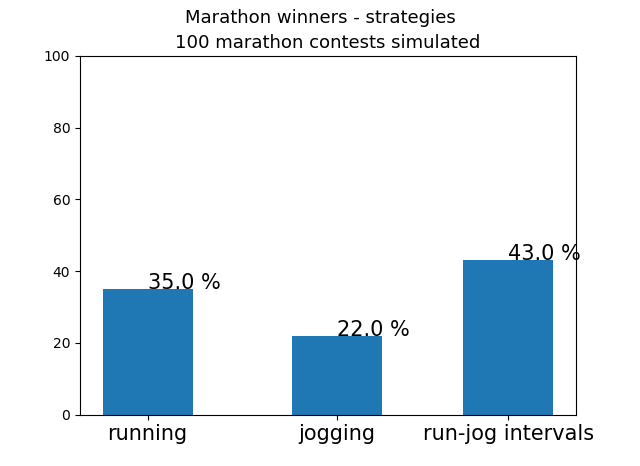
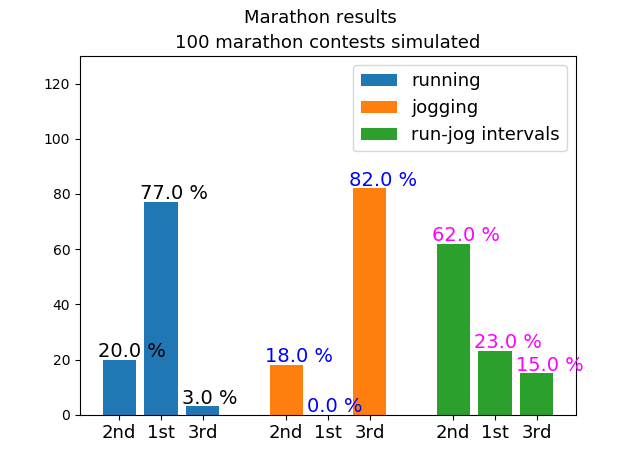
improved code; shows 1st 2nd and 3rd places for run jog run-jog marathon strategies

diff --git a/montemarathon.py b/montemarathon.py
@@ -15,15 +15,16 @@ marathon race
 Andrew Garcia, 2019'''
 
 
-'bad runners'
-probs_run = [0.40, 0.40, 0.01]
-'better runners'
-#probs_run = [0.20, 0.30, 0.01]
-'joggers (all the same)'
-probs_jog = [0.01, 0.00001, 0.00001]
+'bad runners - probabilities for injuries / exhaustion high '
+#probs_run = [0.40, 0.40, 0.01]
+#v_run = 12.5        #speed, miles per hour
 
-
+'better runners - probabilities for injuries / exhaustion reduced'
+probs_run = [0.20, 0.30, 0.01]
 v_run = 12.5        #speed, miles per hour
+
+'joggers probabilities all the same whether good or bad'
+probs_jog = [0.01, 0.00001, 0.00001]
 v_jog = 6        #speed, miles per hour
 
 
@@ -60,8 +61,11 @@ def out(k,t,probs,speed,blisters):
     t += 1          #1 minute passes
     
     return k,t,blisters
-    
 
+
+'MONTE CARLO ALGORITHMS FOR RACE CONTESTANTS'
+
+'pure runners - ran entire race'
 def runner(L):
         
     'clock starts @ time t = 0 min and distance k = 0 miles'    
@@ -71,7 +75,7 @@ def runner(L):
         k,t,blisters = out(k,t,probs_run,v_run,blisters)
     return k,t
     
-    
+'pure joggers - jogged entire race'
 def jogger(L):
     
     'clock starts @ time t = 0 min and distance k = 0 miles'    
@@ -81,7 +85,7 @@ def jogger(L):
         k,t,blisters = out(k,t,probs_jog,v_jog,blisters)
     return k,t
     
-'running-jogging intervals'
+'runner-joggers - alternated between running and jogging'
 def rj_int(L):
     
     'lower probability of hitting the wall if alternating:'
@@ -96,8 +100,9 @@ def rj_int(L):
         
     return k,t
     
-
-def race_winner(L):
+'--------------------------------------------------------------------------'
+'1st 2nd or 3rd place'
+def race_places(L):
 
     dr,tr = runner(L)
     dj,tj = jogger(L)
@@ -105,47 +110,120 @@ def race_winner(L):
     drj,trj = rj_int(L)
     
     times = [tr,tj,trj]
-    whowon = np.zeros(3)
-    winner = times.index(np.min(times))
-    whowon[winner] =1
+    order = list(np.sort(times))
+    
+    places = [order.index(times[0]),order.index(times[1]),order.index(times[2])]
 
-    return whowon
+    return places
 
 
+def assign_places(L,rers1st, jers1st, rjers1st,rers2nd, jers2nd, \
+                  rjers2nd,rers3rd, jers3rd, rjers3rd):
+
+    run,jog,runjog=race_places(L)
+
+    rers1st.append(1 if run == 0 else 0)
+    jers1st.append(1 if jog == 0 else 0)
+    rjers1st.append(1 if runjog == 0 else 0)
+    
+    rers2nd.append(1 if run == 1 else 0)
+    jers2nd.append(1 if jog == 1 else 0)
+    rjers2nd.append(1 if runjog == 1 else 0)
+    
+    rers3rd.append(1 if run == 2 else 0)
+    jers3rd.append(1 if jog == 2 else 0)
+    rjers3rd.append(1 if runjog == 2 else 0)
+
+    R1st, J1st, RJ1st = np.sum(rers1st),np.sum(jers1st),np.sum(rjers1st)
+    R2nd, J2nd, RJ2nd = np.sum(rers2nd),np.sum(jers2nd),np.sum(rjers2nd)
+    R3rd, J3rd, RJ3rd = np.sum(rers3rd),np.sum(jers3rd),np.sum(rjers3rd)
+    
+    return R1st, J1st, RJ1st, R2nd, J2nd, RJ2nd, R3rd, J3rd, RJ3rd 
+
+'ITERATIONS'
+
+def fast_iters(N):
+    L = 26.2    #miles
+
+    j = 0
+    rers1st, jers1st, rjers1st = [],[],[]
+    rers2nd, jers2nd, rjers2nd = [],[],[]
+    rers3rd, jers3rd, rjers3rd = [],[],[]
+
+    while j < N:
+        R1st, J1st, RJ1st, R2nd, J2nd, RJ2nd, R3rd, J3rd, RJ3rd = \
+        assign_places(L,rers1st, jers1st, rjers1st, \
+                      rers2nd, jers2nd, rjers2nd, rers3rd, jers3rd, rjers3rd)
+        j+=1
+    
+    print('Results {} Marathon races'.format(j))
+    print('Runners: \n1st place {0}({3}%)\n2nd place {1}({4}%) \
+          \n3rd place {2}({5}%)'.\
+          format(R1st,R2nd,R3rd,R1st*100/j,R2nd*100/j,R3rd*100/j))
+    
+    print('\nJoggers: \n1st place {0}({3}%)\n2nd place {1}({4}%) \
+          \n3rd place {2}({5}%)'.\
+          format(J1st,J2nd,J3rd,J1st*100/j,J2nd*100/j,J3rd*100/j))
+    
+    print('\nRunner-Joggers: \n1st place {0}({3}%)\n2nd place {1}({4}%) \
+          \n3rd place {2}({5}%)'.\
+          format(RJ1st,RJ2nd,RJ3rd,RJ1st*100/j,RJ2nd*100/j,RJ3rd*100/j))
+
+print(fast_iters(1000))
+
+        
 def dyn_bar(N):
     L = 26.2    #miles
 
     j = 0
-    rers, jers, rjers = [],[],[]
+    rers1st, jers1st, rjers1st = [],[],[]
+    rers2nd, jers2nd, rjers2nd = [],[],[]
+    rers3rd, jers3rd, rjers3rd = [],[],[]
+
     while j < N:
 
         plt.clf()
-        run,jog,runjog=race_winner(L)
         
-        x=[-0.125, 0.4, 1- 0.125]
-
+        R1st, J1st, RJ1st, R2nd, J2nd, RJ2nd, R3rd, J3rd, RJ3rd = \
+        assign_places(L,rers1st, jers1st, rjers1st, \
+                      rers2nd, jers2nd, rjers2nd, rers3rd, jers3rd, rjers3rd)
         
-        rers.append(run)
-        jers.append(jog)
-        rjers.append(runjog)
-
-        RUNNER, JOGGER, RJ = np.sum(rers),np.sum(jers),np.sum(rjers)
-        y = [RUNNER, JOGGER, RJ]
+        
+        x=[0, 1, 2]
+        y = [R2nd,R1st,R3rd]
+        
+        x2=[4,5,6]
+        y2 = [J2nd,J1st,J3rd]
+#        
+        x3 = [8,9,10]
+        y3 = [RJ2nd,RJ1st,RJ3rd]
     
         j+=1
-#        print(j)
-        plt.text(-0.125,RUNNER,'{} %'.format(np.round(RUNNER*100/j,2)),size=15)
-        plt.text(0.4,JOGGER,'{} %'.format(np.round(JOGGER*100/j,2)),size=15)
-        plt.text(1- 0.125,RJ,'{} %'.format(np.round(RJ*100/j,2)),size=15)
 
-        plt.bar(x,y,0.25)
-#        plt.xlim(-0.5,1.5)
+        plt.bar(x,y,0.8,label='running')
+        plt.bar(x2,y2,0.8,label='jogging')
+        plt.bar(x3,y3,0.8,label='run-jog intervals')
+
         
-        plt.ylim(0,N)
-        plt.suptitle('Marathon winners - strategies',size =13)
+        plt.legend(prop={'size': 13})
+        plt.ylim(0,N*1.3)
+        plt.suptitle('Marathon results',size =13)
         plt.title('{} marathon contests simulated'.format(j),size=13)
-        plt.xticks(x,['running','jogging','run-jog intervals'],size=15)
+        plt.xticks([0,1,2,4,5,6,8,9,10],['2nd','1st','3rd']*3,size=13)
+
+
         plt.pause(0.000001)
         
-dyn_bar(100)
+    plt.text(0-.5,R2nd+1,'{} %'.format(np.round(R2nd*100/j,2)),size=14)
+    plt.text(1-.5,R1st+1,'{} %'.format(np.round(R1st*100/j,2)),size=14)
+    plt.text(2-.5,R3rd+1,'{} %'.format(np.round(R3rd*100/j,2)),size=14)
 
+    plt.text(4-.5,J2nd+1,'{} %'.format(np.round(J2nd*100/j,2)),size=14,color='blue')
+    plt.text(5-.5,J1st+1,'{} %'.format(np.round(J1st*100/j,2)),size=14,color='blue')
+    plt.text(6-.5,J3rd+1,'{} %'.format(np.round(J3rd*100/j,2)),size=14,color='blue')
+    
+    plt.text(8-.5,RJ2nd+1,'{} %'.format(np.round(RJ2nd*100/j,2)),size=14,color='magenta')
+    plt.text(9-.5,RJ1st+1,'{} %'.format(np.round(RJ1st*100/j,2)),size=14,color='magenta')
+    plt.text(10-.5,RJ3rd+1,'{} %'.format(np.round(RJ3rd*100/j,2)),size=14,color='magenta')
+
+dyn_bar(100)
